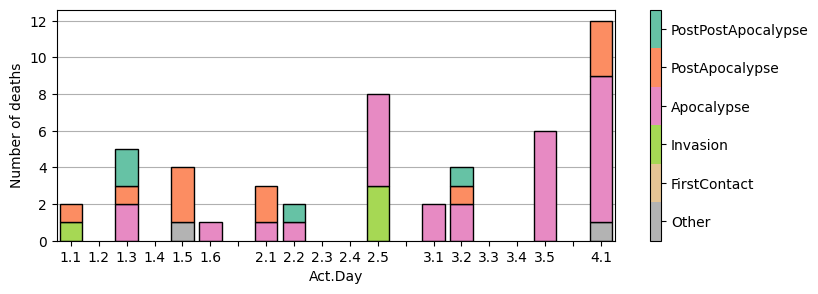
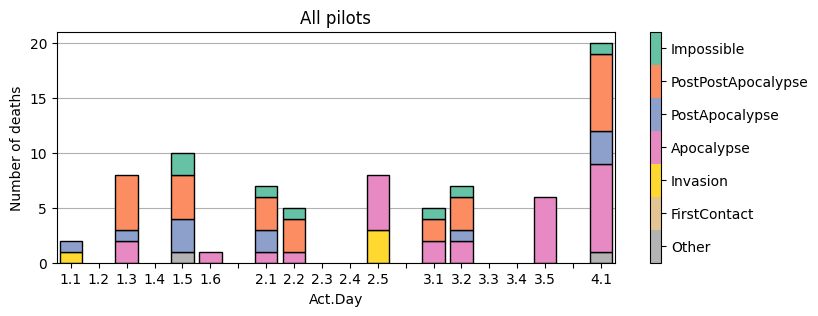
Update readme

diff --git a/README.md b/README.md
@@ -7,21 +7,10 @@ Just a small package to plot stuff from your StarVaders run history.
 
 
 ## Setup
-- Optional, but recommended: Create and activate virtual environment:
+- Install the dependencies:
 
-```
-python -m venv .venv
-
-#Windows
-.venv\Scripts\activate
-#MacOS and linux
-source .venv/bin/activate
-```
-
-- Install StarVadersStats and dependencies:
-
-```
-pip install -e .
+```bash
+pip install -r requirements.txt
 ```
 
 - Copy the ```history``` directory from your StarVaders save data into the ```data``` directory.
@@ -40,10 +29,10 @@ pip install -e .
 - Import and instantiate SVStats
 
 ```python
-from StarVadersStats import SVStats
+from src.StarVadersStats import SVStats
 svs = SVStats(
     #Optionally supply path to history directly
-    #Required if data/history not present in current directory
+    #Required if history is not copied to data-directory
     rundir = None
 )
 ```
@@ -51,7 +40,7 @@ svs = SVStats(
 - Plot run success:
 ```python
 fig, ax = svs.plot_runSuccess(
-    pilot=None #Optionally filter to specific pilot
+    pilot=None #Optionally filter to specific pilot or class
 )
 ```
 ![runSuccess](figs/runSuccess.png)
@@ -59,10 +48,26 @@ fig, ax = svs.plot_runSuccess(
 - Plot final room for failed runs:
 ```python
 fig, ax = svs.plot_finalRoom(
-    pilot=None #Optionally filter to specific pilot
+    pilot=None #Optionally filter to specific pilot or class
 )
 ```
 ![finalRoom](figs/finalRoom.png)
+
+- Plot win rate versus the different bosses:
+```python
+fig, ax = svs.plot_bossWinRate(
+    pilot=None #Optionally filter to specific pilot or class
+)
+```
+![bossWinRate](figs/bossWinRate.png)
+
+- Plot your runs with the different packs:
+```python
+fig, ax = svs.plot_packSuccess(
+    pilot=None #Optionally filter to specific pilot or class
+)
+```
+![packSuccess](figs/packSuccess.png)
 
 - Print overview table:
 ```python
